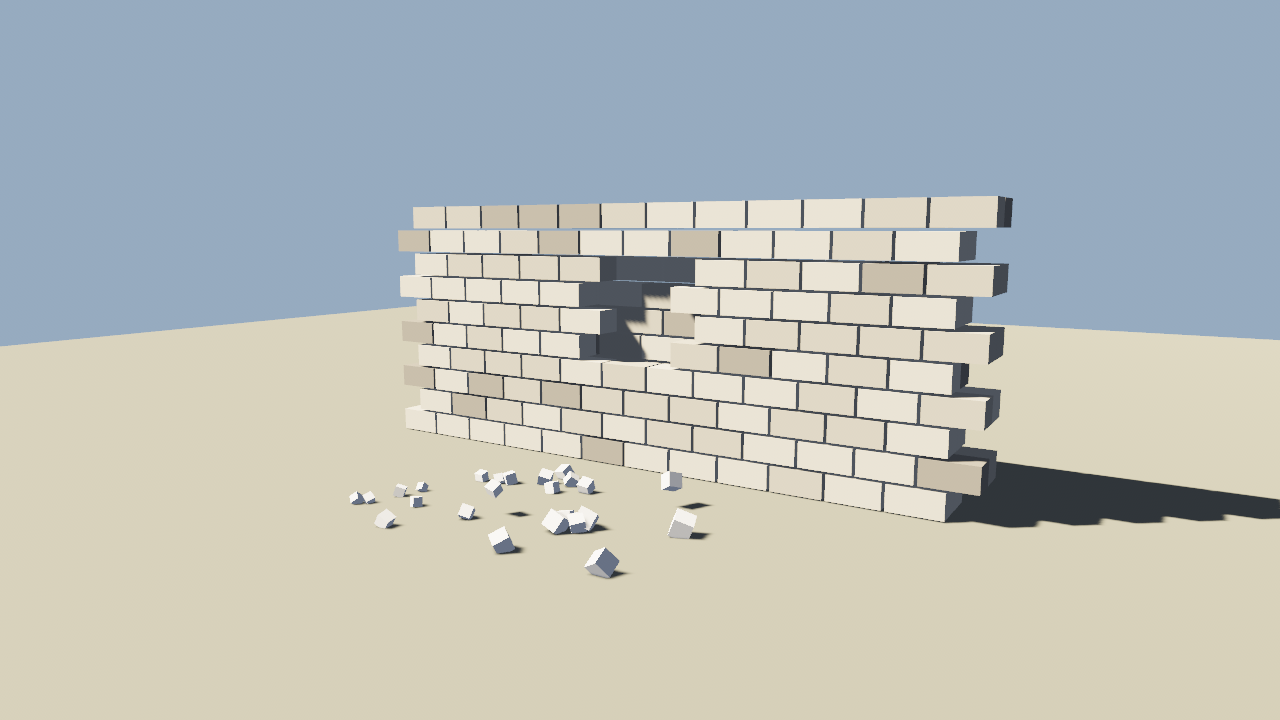
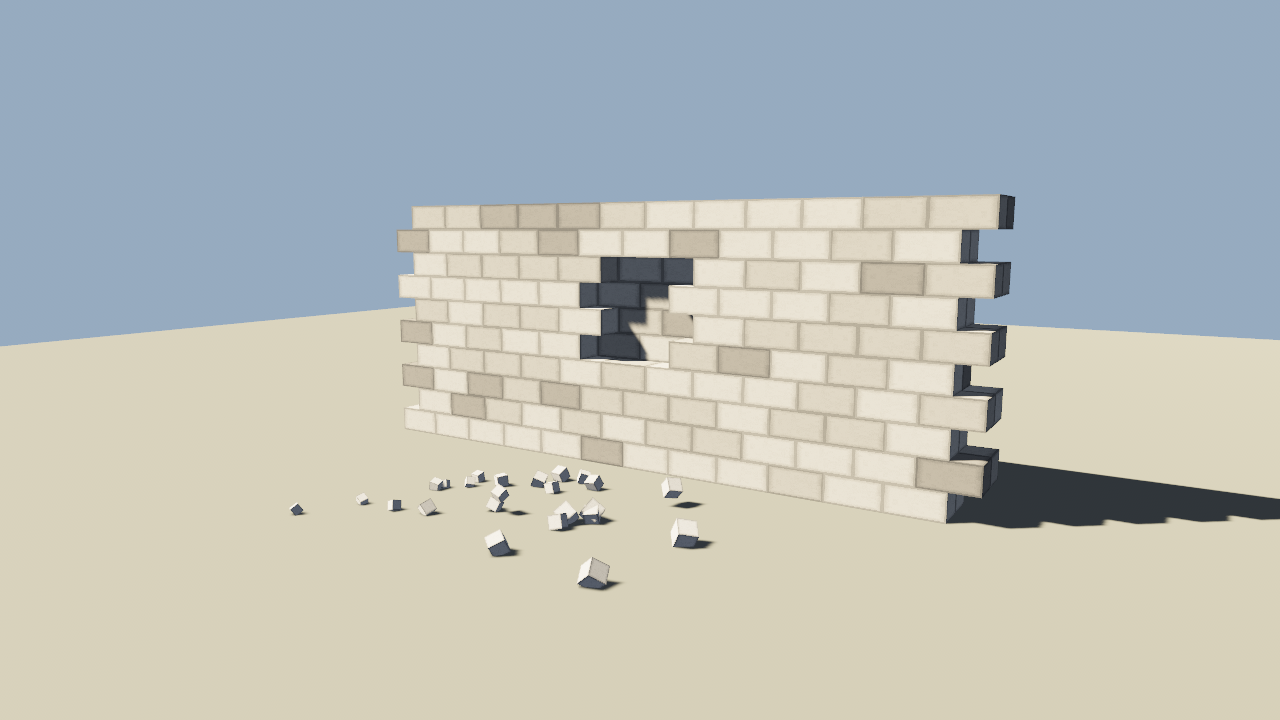
Add brick texture (procedural border/mortar/noise) + full-size bricks + UV hash mirroring

diff --git a/src/wall.rs b/src/wall.rs
@@ -10,8 +10,9 @@
 
 use bevy::asset::RenderAssetUsages;
 use bevy::math::primitives::Cuboid;
-use bevy::mesh::{Mesh, PrimitiveTopology};
+use bevy::mesh::{Mesh, PrimitiveTopology, VertexAttributeValues};
 use bevy::prelude::*;
+use bevy::render::render_resource::{Extent3d, TextureDimension, TextureFormat};
 
 // ── 尺寸常量（全部由此推导，禁止魔法数字）────────────────────────────
 pub const BLOCK_W: f32 = 1.0; // 砖宽（X）
@@ -169,10 +170,14 @@ pub fn build_chunk_mesh(wall: &WallData, cx: usize, cy: usize) -> Mesh {
                 if !wall.alive(c, y, x) {
                     continue; // ← 死砖不产生任何三角形
                 }
-                // 砖体缩到 94%：留出灰缝，肉眼才能分辨单块砖
-                let mut m =
-                    Cuboid::new(BLOCK_W * 0.94, BLOCK_H * 0.9, BLOCK_D * 0.94).mesh().build();
+                // 满尺寸砖：砖缝和边框全部画在贴图里（见 brick_texture），
+                // 好处是墙不再有镂空缝（不透光），几何还是一个盒子/砖。
+                let mut m = Cuboid::new(BLOCK_W, BLOCK_H, BLOCK_D).mesh().build();
                 m = m.translated_by(block_center(c, y, x));
+                // 哈希镜像 UV：同一张贴图，每块砖随机取 4 种朝向之一（白送的变化）
+                let fx = hash2(x as i32 * 3 + c as i32, y as i32) < 0.5;
+                let fy = hash2(x as i32, y as i32 * 5 + c as i32) < 0.5;
+                let m = flip_uv(m, fx, fy);
                 parts.push((m, block_color(c, y, x)));
             }
         }
@@ -204,6 +209,68 @@ fn tinted(mut m: Mesh, c: [f32; 4]) -> Mesh {
     let n = m.count_vertices();
     m.insert_attribute(Mesh::ATTRIBUTE_COLOR, vec![c; n]);
     m
+}
+
+/// 镜像 UV（u→1-u / v→1-v）：不额外画贴图就让砖面有 4 种纹理朝向，
+/// 避免"每块砖噪点一模一样"的塑料感。
+fn flip_uv(mut m: Mesh, fx: bool, fy: bool) -> Mesh {
+    if !fx && !fy {
+        return m;
+    }
+    if let Some(VertexAttributeValues::Float32x2(uvs)) = m.attribute(Mesh::ATTRIBUTE_UV_0) {
+        let flipped: Vec<[f32; 2]> = uvs
+            .iter()
+            .map(|[u, v]| [if fx { 1.0 - u } else { *u }, if fy { 1.0 - v } else { *v }])
+            .collect();
+        m.insert_attribute(Mesh::ATTRIBUTE_UV_0, flipped);
+    }
+    m
+}
+
+// ── 砖面贴图：边框/砂浆/噪点全画在一张程序化贴图里（方案 D）──────────
+//
+// 原理：PBR 管线里 最终颜色 = 顶点色（每砖随机石色）× 贴图 × 光照。
+// 所以贴图以纯白为基准（不染色），砂浆缝和倒角阴影用"乘法变暗"实现：
+//   - 外圈（3% 宽）：砂浆缝，亮度 ~0.62
+//   - 内圈过渡带：0.78→1.0 渐变，模拟砖边缘的倒角/圆角受光
+//   - 砖面主体：白色 + 两档频率的噪点（细粒凹坑 + 大块水渍）
+// 一张 256² 贴图 = 零几何成本换来"边框 + 灰缝 + 细节"三样东西。
+
+/// 缝宽（占面的比例）。u 对应砖长边、v 对应短边，所以 v 稍宽以补偿长宽比。
+const MORTAR_U: f32 = 0.030;
+const MORTAR_V: f32 = 0.050;
+/// 倒角过渡带宽度（从砂浆边往里）
+const CHAMFER: f32 = 0.10;
+
+pub fn brick_texture() -> Image {
+    const S: u32 = 256;
+    let mut data = Vec::with_capacity((S * S * 4) as usize);
+    for py in 0..S {
+        for px in 0..S {
+            // 到四条边的距离（0~0.5，u/v 单位）
+            let du = (px as f32 / S as f32).min(1.0 - px as f32 / S as f32);
+            let dv = (py as f32 / S as f32).min(1.0 - py as f32 / S as f32);
+            let lum = if du < MORTAR_U || dv < MORTAR_V {
+                // 砂浆缝：基本灰 + 轻噪点（缝要平，噪点减半）
+                0.62 + (hash2(px as i32, py as i32 * 7) - 0.5) * 0.06
+            } else {
+                // 砖面：靠缝暗（倒角感）→ 中心亮，叠两档频率噪点
+                let d = ((du - MORTAR_U).min(dv - MORTAR_V) / CHAMFER).clamp(0.0, 1.0);
+                0.78 + 0.22 * d
+                    + (hash2(px as i32 * 3, py as i32 * 11) - 0.5) * 0.09   // 细粒
+                    + (hash2(px as i32 / 21, py as i32 / 17) - 0.5) * 0.08  // 大块渍
+            };
+            let b = (lum.clamp(0.0, 1.0) * 255.0) as u8;
+            data.extend_from_slice(&[b, b, b, 255]);
+        }
+    }
+    Image::new(
+        Extent3d { width: S, height: S, depth_or_array_layers: 1 },
+        TextureDimension::D2,
+        data,
+        TextureFormat::Rgba8UnormSrgb,
+        RenderAssetUsages::default(),
+    )
 }
 
 // ── 验证出口：ASCII 截面（内存截面扫描，SCENE_SKILL.md 方案 D）────────

diff --git a/src/main.rs b/src/main.rs
@@ -87,16 +87,31 @@ fn setup(
     mut commands: Commands,
     mut meshes: ResMut<Assets<Mesh>>,
     mut materials: ResMut<Assets<StandardMaterial>>,
+    mut images: ResMut<Assets<Image>>,
     wall: Res<wall::WallData>,
 ) {
-    // 共享白色材质（颜色全在顶点色里 → 所有东西自动合批）
-    let mat = materials.add(StandardMaterial {
+    // 砖面贴图（程序化生成：边框 + 砂浆 + 噪点，零外部资源，见 wall.rs）
+    let brick_tex = images.add(wall::brick_texture());
+    // 砖的材质：白底 × 贴图。每砖颜色仍由顶点色提供（合批不受影响，
+    // 因为整面墙还是共享这 1 个材质）
+    let brick_mat = materials.add(StandardMaterial {
+        base_color: Color::WHITE,
+        base_color_texture: Some(brick_tex),
+        perceptual_roughness: 0.95,
+        ..default()
+    });
+    // 素面白材质（地面用，不带贴图）
+    let plain_mat = materials.add(StandardMaterial {
         base_color: Color::WHITE,
         perceptual_roughness: 0.85,
         ..default()
     });
-    let debris_mesh = meshes.add(Cuboid::new(0.22, 0.22, 0.22).mesh().build());
-    commands.insert_resource(WallAssets { material: mat.clone(), debris_mesh });
+    // 碎砖：小方块 + 中档石色顶点色。材质带砖面贴图 → 碎块自带"断砖"质感
+    let mut debris_mesh = Cuboid::new(0.22, 0.22, 0.22).mesh().build();
+    let n = debris_mesh.count_vertices();
+    debris_mesh.insert_attribute(Mesh::ATTRIBUTE_COLOR, vec![[0.62, 0.60, 0.55, 1.0]; n]);
+    let debris_mesh = meshes.add(debris_mesh);
+    commands.insert_resource(WallAssets { material: brick_mat.clone(), debris_mesh });
 
     // 暖阳光 + 阴影（无阴影 = 漂浮感）
     commands.spawn((
@@ -119,7 +134,7 @@ fn setup(
     ground.compute_flat_normals();
     commands.spawn((
         Mesh3d(meshes.add(ground)),
-        MeshMaterial3d(mat.clone()),
+        MeshMaterial3d(plain_mat.clone()),
         Transform::default(),
     ));
 
@@ -131,7 +146,7 @@ fn setup(
             commands.spawn((
                 WallChunk { cx, cy },
                 Mesh3d(meshes.add(mesh)),
-                MeshMaterial3d(mat.clone()),
+                MeshMaterial3d(brick_mat.clone()),
                 Transform::default(),
             ));
         }
